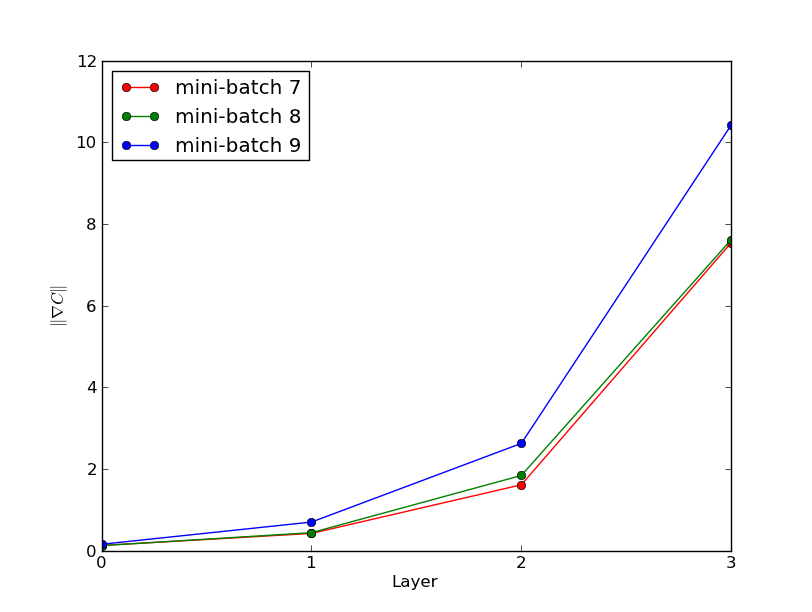
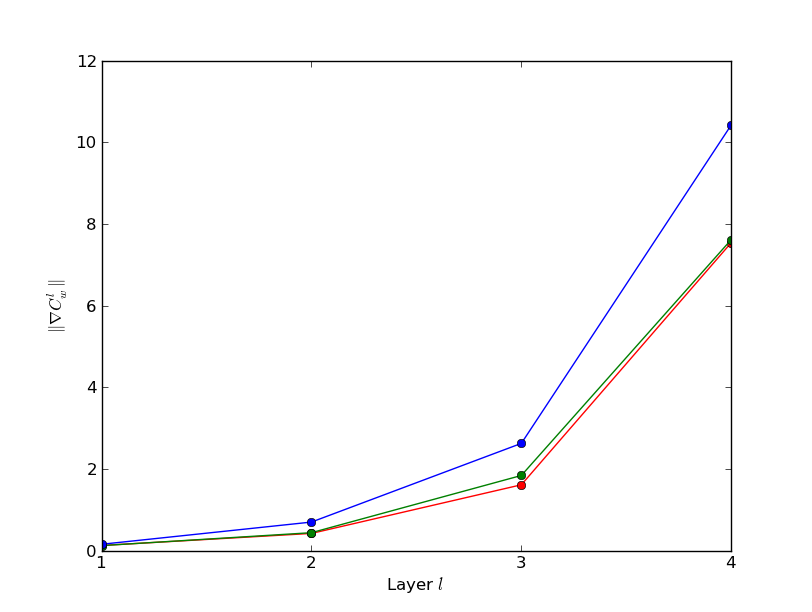
Minor refactoring

diff --git a/fig/chap6/backprop_magnitude_nabla.py b/fig/chap6/backprop_magnitude_nabla.py
@@ -44,10 +44,9 @@ nw2 = [0.12571016850457151, 0.44231149185805047,
        1.8435833504677326, 7.61973813981073]
 nw3 = [0.15854489503205446, 0.70244235144444678, 
        2.6294803575724157, 10.427062019753425]
-plt.plot(range(4), nw1, "ro-", range(4), nw2, "go-", 
-         range(4), nw3, "bo-")
-plt.xlabel('Layer')
-plt.ylabel(r"$\Vert\nabla C\Vert$")
-plt.xticks([0, 1, 2, 3])
-plt.legend(('mini-batch 7', 'mini-batch 8', 'mini-batch 9'), loc='upper left')
+plt.plot(range(1, 5), nw1, "ro-", range(1, 5), nw2, "go-", 
+         range(1, 5), nw3, "bo-")
+plt.xlabel('Layer $l$')
+plt.ylabel(r"$\Vert\nabla C^l_w\Vert$")
+plt.xticks([1, 2, 3, 4])
 plt.show()
